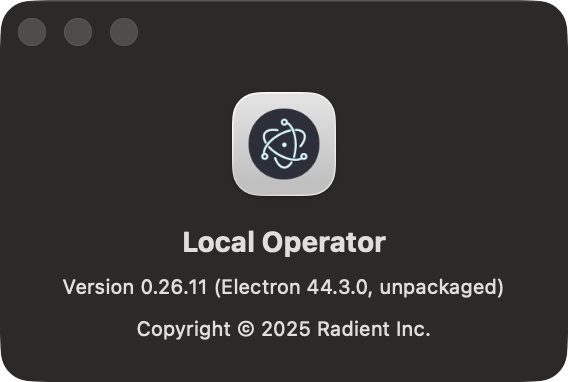
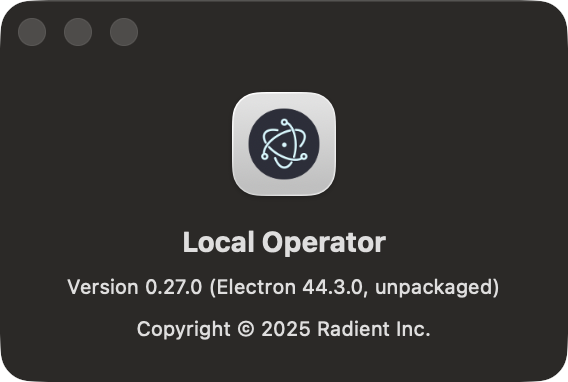
fix(menu): install the app's own menu before the ready handler awaits anything
Remediation round 1 for the code review (F1) and the design review (D1, D2, D3,
D4, N2) on this pull request. The two that are code, plus the evidence re-shot
the design round asked for and two corrections to the set's own prose.

F1 (code review, minor). `configureAboutPanel(); createApplicationMenu();` ran
almost three thousand lines into the ready handler, below the backend awaits -
so until it ran, Electron's DEFAULT application menu was live, and its first item
is `About Electron` carrying Electron's own `about` role. That item has no
handler of ours in its path (`orderFrontStandardAboutPanel:`), so the window mode
cannot suppress it: a `headless` run had an un-gated About item for seconds on
every launch that has to install or reach a backend. It now runs immediately
after the smoke-test branch, above the launcher watch and every `await`. Nothing
in the template needs what the awaits produce: it reads `app.name`,
`process.env.ELECTRON_RENDERER_URL` and the module-level `mainWindow` through
handlers that check it at click time. `scripts/about-panel.test.mjs` gains the
contract - the install's offset in the ready handler must precede the first
`await` in it (comments stripped before the search, or the prose above the call
would be the thing measured), and a second install would be a second decision.

D3 (design review, nit). The `resolveAboutPanelAction` doc comment quoted a
`284x170` panel; the one this change makes is `284x191`, the copyright line's 21pt.
[…]

Changed region(s): [[0.0898, 0.7199, 0.8979, 0.7775]]

diff --git a/src/main/index.ts b/src/main/index.ts
@@ -1552,6 +1552,28 @@ app
 		}
 
 		/*
+		 * The app's own menu, installed BEFORE THIS HANDLER AWAITS ANYTHING.
+		 *
+		 * Why the position is load-bearing rather than tidy (code review round 1,
+		 * F1): until this runs, Electron's DEFAULT application menu is live, and its
+		 * first item is `About Electron` carrying Electron's own `about` role - a
+		 * click with no handler of ours in the path, so the window mode cannot
+		 * suppress it and a `headless` run has an un-gated About item for as long as
+		 * this install has not happened. It used to sit below the backend startup in
+		 * this handler, which is seconds of an agent-triggerable panel for every
+		 * launch that has to install or reach a backend.
+		 *
+		 * Nothing below is needed to build it: the template reads `app.name`,
+		 * `process.env.ELECTRON_RENDERER_URL` and the module-level `mainWindow`
+		 * (through handlers that check it at click time), all of which exist here.
+		 * It sits after the smoke-test branch above on purpose - that path exits the
+		 * process immediately and wants no menu - and still before any `await` in
+		 * this handler.
+		 */
+		configureAboutPanel();
+		createApplicationMenu();
+
+		/*
 		 * A headless run does not outlive the process that launched it.
 		 *
 		 * The window is never shown and macOS keeps a windowless app alive, so an
@@ -2465,10 +2487,6 @@ app
 				}
 			}
 		}
-
-		// Create custom application menu
-		configureAboutPanel();
-		createApplicationMenu();
 
 		// --- Helper to manage main window and update service lifecycle ---
 		let updateService: UpdateService | null = null;

diff --git a/src/main/window-mode.ts b/src/main/window-mode.ts
@@ -728,8 +728,9 @@ export function resolveSecondLaunchShow(input: {
  *
  * `inactive` KEEPS the panel, and that half is a measurement rather than a hope.
  * Measured on this host (macOS 25.6, Electron 44.3.0): `app.showAboutPanel()`
- * orders the panel front - the window server lists it, 284x170, `onscreen: true`
- * - WITHOUT making the app the active application; `app.isActive()` stays false
+ * orders the panel front - the window server lists it, `284x191` at the sizes
+ * these runs use, `onscreen: true` - WITHOUT making the app the active
+ * application; `app.isActive()` stays false
  * and the frontmost pid never moves (0 of 30 samples in the run recorded in
  * `docs/evidence/about-panel`). That is exactly the promise `inactive` makes, so
  * the panel is allowed there. `normal` is the operator's own app and behaves as

diff --git a/docs/evidence/about-panel/README.md b/docs/evidence/about-panel/README.md
@@ -12,12 +12,19 @@ produced, in front of the operator:
 | | name | version line |
 | --- | --- | --- |
 | before | `Electron` | `Version 44.3.0 (44.3.0)` |
-| after | `Local Operator` | `Version 0.26.11 (Electron 44.3.0, unpackaged)` |
+| after | `Local Operator` | `Version 0.27.0 (Electron 44.3.0, unpackaged)` |
 
 Both rows are pixels of the panel window itself, captured from the BUILT app on
-this machine: `frames/before-identity.png` is `origin/main` at `6f15f71ea`,
-`frames/after-identity.png` is the branch head. The second line is a measured run
-of the shipped code, not a mock of it - see *How to re-derive* below.
+this machine: `frames/before-identity.png` is a tree built at `origin/main`
+`f19827852` - the base this branch was rebased onto when round 1 shot it, and the
+last base whose About path is still Electron's `about` role, which is the fact
+the frame is evidence about - and `frames/after-identity.png` is this branch's own
+code, the tree whose `srcTree` `docs/evidence/manifest.json` pins. Neither is a
+mock and neither is the app photographing itself: the About panel is AppKit's
+window, so it is photographed from outside, window-only, with `screencapture -l`
+(never the screen) while the app raised it in `inactive` mode. Both runs are
+UNPACKAGED, which is the case that used to read Electron's identity; what a
+packaged build's panel reads is under *Residual*.
 
 ## What changed
 
@@ -35,61 +42,128 @@ of the shipped code, not a mock of it - see *How to re-derive* below.
   item therefore carries a handler of its own instead of Electron's `about` role,
   whose click is AppKit's `orderFrontStandardAboutPanel:` and cannot be
   intercepted at all.
+- **The menu is installed before the ready handler awaits anything.** Until it is
+  installed, Electron's DEFAULT application menu is live and its first item is
+  `About Electron` carrying that same `about` role - a click no handler of ours is
+  in. It used to sit below the backend startup, which is seconds of an
+  agent-triggerable panel per launch; it now runs immediately after the smoke-test
+  branch, above the launcher watch and every `await`.
 
 ## What was measured
 
 Headless behaviour, from the shipped build (full run output quoted below):
 
 ```
-== windows owned by this app BEFORE the action (window server's list, on screen only):
-   (none)
+== windows owned by this app BEFORE the action (the window server's own list; its onscreen flag is its answer per window):
+   {"id": 38322, "pid": 72867, "owner": "Electron", "name": "Local Operator", "layer": 0, "onscreen": false, "alpha": 1065353216, "bounds": {"x": 174, "y": 109, "w": 1380, "h": 900}}
+== app identity (its own answer): name=Local Operator version=0.27.0 electron=44.3.0 packaged=false
 == About menu entries: Local Operator > About Local Operator [role=none] click=function
+== active before the action: false; windows: [{"visible":false,"focused":false,"focusable":false,"size":[1380,900]}]
 == invoked: Local Operator > About Local Operator via the item's own click handler - called
+== active after the action: false; windows: [{"visible":false,"focused":false,"focusable":false,"size":[1380,900]}]
+== driver: mode=headless appPid=72867 scratch=/tmp/about-panel/after-headless
 == windows owned by this app AFTER the action:
-   (none)
+   {"id": 38322, "pid": 72867, "owner": "Electron", "name": "Local Operator", "layer": 0, "onscreen": false, "alpha": 1065353216, "bounds": {"x": 174, "y": 109, "w": 1380, "h": 900}}
+== the window server's ON-SCREEN set for this pid: (none)
 == the action created no window: nothing reached the screen
 == the app's own line about the action:
-   23:39:15.789 › [about-panel] suppressed by window mode headless: a headless run raises no window
-== this app was the frontmost application in 0 of 33 samples (pid 62441)
-    [window-mode] window mode headless: 1380x900, window created and never shown, page throttling off, no Dock tile
-    [window-mode] state: visible=false focused=false focusable=false size=1380x900 content=1380x868
+   00:57:23.025 › [about-panel] suppressed by window mode headless: a headless run raises no window
+== this app was the frontmost application in 0 of 33 samples (pid 72867)
+== the app's lines about the launch:
+   [window-mode] window mode headless: 1380x900, window created and never shown, page throttling off, no Dock tile
+   00:57:17.422 › [window-mode] headless run already detached (no launcher to outlive)
+   [window-mode] headless run already detached (no launcher to outlive)
+   [window-mode] state: visible=false focused=false focusable=false size=1380x900 content=1380x868
+   00:57:23.025 › [about-panel] suppressed by window mode headless: a headless run raises no window
 == processes left from this run: 0
 ```
 
-The census is the window server's own list for that pid with `onscreen: true`, so
-"no window" is a read of the window server rather than an absence of evidence:
-the headless run's own window exists in that census with `onscreen` false when it
-is asked for all windows, and the rig reads the on-screen set precisely so a panel
-that appeared would be a new window id in it.
+Two facts about that output, because they decide what it is evidence FOR:
+
+- **The invocation is not a menu click.** `harness/drive.mjs` calls the About
+  ITEM's own click handler in the app's main process, over the Node inspector the
+  rig launches the app with. A real menu click is impossible here for the reason
+  the whole change is about: on macOS a menu belongs to the ACTIVE app, so
+  driving one means activating the app, which is the interruption these rigs
+  exist to avoid. Calling the item's handler is the same code path the menu
+  takes, without the activation.
+- **"No window" is a read, not an absence.** The census is the window server's
+  own answer for that run's pid: the headless run's window is right there in it,
+  and the action adds no second one. The rig computes the difference over the
+  FULL list rather than the on-screen set, because the on-screen set is empty for
+  a background app whenever the display is asleep - measured on this machine, and
+  reported separately on its own line - and a difference over it would read "the
+  action created nothing" for the wrong reason.
 
 The identity pair, from the same rig in `inactive` mode (the one mode that shows
 the panel, and the mode whose promise is that the app is never activated):
 
 ```
-== app identity (its own answer): name=Local Operator version=0.26.11 electron=44.3.0 packaged=false
-== active before the action: false; windows: [{"visible":true,"focused":false,...}]
+== windows owned by this app BEFORE the action:
+   {"id": 38270, "pid": 53022, "owner": "Electron", "name": "Local Operator", "layer": 0, "onscreen": false, "alpha": 1065353216, "bounds": {"x": 464, "y": 259, "w": 800, "h": 600}}
+== app identity (its own answer): name=Local Operator version=0.27.0 electron=44.3.0 packaged=false
+== About menu entries: Local Operator > About Local Operator [role=none] click=function
+== active before the action: false; windows: [{"visible":true,"focused":false,"focusable":true,"size":[800,600]}]
 == invoked: Local Operator > About Local Operator via the item's own click handler - called
-== active after the action: false; windows: [{"visible":true,"focused":false,...}]
+== active after the action: false; windows: [{"visible":true,"focused":false,"focusable":true,"size":[800,600]}]
+== driver: mode=inactive appPid=53022 scratch=/tmp/about-panel/after-identity
 == windows owned by this app AFTER the action:
-   {"id": 37602, "name": "Local Operator", "onscreen": true, "bounds": {"w": 800, "h": 600}}
-   {"id": 37603, "name": "", "onscreen": true, "bounds": {"x": 722, "y": 211, "w": 284, "h": 191}}
-== captured the window this action created (id 37603) to .../after-identity.png
-== this app was the frontmost application in 0 of 31 samples (pid 64761)
+   {"id": 38271, "pid": 53022, "owner": "Electron", "name": "", "layer": 0, "onscreen": false, "alpha": 1065353216, "bounds": {"x": 722, "y": 211, "w": 284, "h": 191}}
+   {"id": 38270, "pid": 53022, "owner": "Electron", "name": "Local Operator", "layer": 0, "onscreen": false, "alpha": 1065353216, "bounds": {"x": 464, "y": 259, "w": 800, "h": 600}}
+== the window server's ON-SCREEN set for this pid: (none)
+== captured the window this action created (id 38271) to /tmp/about-panel/after-identity/frames/after-identity.png
+== this app was the frontmost application in 0 of 30 samples (pid 53022)
+== the app's own lines about the launch and this action:
+   [window-mode] window mode inactive: 800x600, window shown without activating the app, page throttling off
+   00:53:53.541 › [window-mode] window mode inactive is not launcher-bound: a person can close it
+   [window-mode] window mode inactive is not launcher-bound: a person can close it
+   [window-mode] state: visible=true focused=false focusable=true size=800x600 content=800x568
 == processes left from this run: 0
 ```
 
 `app.isActive()` stays false and the frontmost pid never moves: raising the panel
 does not activate the app, which is why `inactive` may raise it and `headless` may
-not. The `before` frame was taken the same way, with one difference the rig prints
-itself: an item that is still Electron's ROLE has no handler of ours to call, so
-that run raises the panel through `app.showAboutPanel()` - the call the role makes.
+not. The `before` frame was taken the same way against the base tree, with one
+difference the rig prints itself: an item that is still Electron's ROLE has no
+handler of ours to call, so that run raises the panel through
+`app.showAboutPanel()` - the call the role makes. That run's panel is `284x170`;
+the one this change makes is `284x191`, the 21pt of the copyright line.
 
 ## How to re-derive
 
-`pnpm build` first: both rigs drive the BUILT app from the tree named, and the
-behaviour rig refuses a tree whose `src/main/index.ts` has no gate, so pointing it
-at `origin/main` cannot raise a panel on the operator's desktop by accident.
+`pnpm build` first, and a tree without a `.env` needs four variables exported or
+the build dies before compilation with `Error: VITE_GOOGLE_CLIENT_ID is not set`
+- `scripts/vite-plugins/replace-backend-config.ts` refuses to build without all
+four, and an empty value is refused too. The values are inert placeholders; no
+credential is created or read, and no sign-in is claimed:
 
+```bash
+export VITE_GOOGLE_CLIENT_ID=evidence-build-only-not-a-credential \
+       VITE_GOOGLE_CLIENT_SECRET=evidence-build-only-not-a-credential \
+       VITE_MICROSOFT_CLIENT_ID=evidence-build-only-not-a-credential \
+       VITE_MICROSOFT_TENANT_ID=evidence-build-only-not-a-credential
+pnpm build
+```
+== windows owned by this app BEFORE the action:
+   {"id": 38270, "pid": 53022, "owner": "Electron", "name": "Local Operator", "layer": 0, "onscreen": false, "alpha": 1065353216, "bounds": {"x": 464, "y": 259, "w": 800, "h": 600}}
+== app identity (its own answer): name=Local Operator version=0.27.0 electron=44.3.0 packaged=false
+== About menu entries: Local Operator > About Local Operator [role=none] click=function
+== active before the action: false; windows: [{"visible":true,"focused":false,"focusable":true,"size":[800,600]}]
+== invoked: Local Operator > About Local Operator via the item's own click handler - called
+== active after the action: false; windows: [{"visible":true,"focused":false,"focusable":true,"size":[800,600]}]
+== driver: mode=inactive appPid=53022 scratch=/tmp/about-panel/after-identity
+== windows owned by this app AFTER the action:
+   {"id": 38271, "pid": 53022, "owner": "Electron", "name": "", "layer": 0, "onscreen": false, "alpha": 1065353216, "bounds": {"x": 722, "y": 211, "w": 284, "h": 191}}
+   {"id": 38270, "pid": 53022, "owner": "Electron", "name": "Local Operator", "layer": 0, "onscreen": false, "alpha": 1065353216, "bounds": {"x": 464, "y": 259, "w": 800, "h": 600}}
+== the window server's ON-SCREEN set for this pid: (none)
+== captured the window this action created (id 38271) to /tmp/about-panel/after-identity/frames/after-identity.png
+== this app was the frontmost application in 0 of 30 samples (pid 53022)
+== the app's own lines about the launch and this action:
+   [window-mode] window mode inactive: 800x600, window shown without activating the app, page throttling off
+   00:53:53.541 › [window-mode] window mode inactive is not launcher-bound: a person can close it
+   [window-mode] window mode inactive is not launcher-bound: a person can close it
+   [window-mode] state: visible=true focused=false focusable=true size=800x600 content=800x568
+== processes left from this run: 0
 ```bash
 # The behaviour half. Headless only, nothing on screen, no capture.
 bash docs/evidence/about-panel/harness/run.sh . after-headless
@@ -99,8 +173,9 @@ bash docs/evidence/about-panel/harness/run.sh . after-headless
 ABOUT_PANEL_VISIBLE_CAPTURE=1 timeout 100 bash docs/evidence/about-panel/harness/identity.sh . after-identity
 ```
 
-Run `identity.sh` against a tree built from `origin/main` for the `before` frame
-and against the branch head for the `after` one; use a label that says which.
+Run `identity.sh` against a tree built at the base for the `before` frame and
+against the branch head for the `after` one; use a label that says which, and give
+the base tree no further use - it is deleted once its frame is taken.
 
 Both rigs isolate everything (a scratch `HOME`, config dir, `--user-data-dir`, a
 cwd outside the tree so its `.env` cannot be read, `VITE_DISABLE_BACKEND_MANAGER`
@@ -117,7 +192,31 @@ built on.
 
 ## Residual, stated rather than implied
 
-The panel's ICON is still Electron's in an unpackaged run, and this change cannot
-reach it: the icon comes from the application bundle's `CFBundleIconFile`, and
-`setAboutPanelOptions` has no icon option on macOS. A packaged build shows the
-app's own icon, which is what the operator sees in the shipped app.
+- **The panel's icon is still Electron's in an unpackaged run, and this change
+  could not reach it.** The reviewer's route was `app.dock.setIcon`, which sets
+  `NSApplication.applicationIconImage`; measured with that call in place and
+  logged (`[app-icon] drawing the app's own icon from
+  .../build/icon-1024x1024.png`, the file verified as the app's own art), the
+  panel still drew Electron's atom - the icon region of the re-shot frame is
+  pixel-identical to the same head WITHOUT the call (RMSE 174/65535 over 170x170
+  px, i.e. antialiasing noise, with the frames agreeing everywhere else). So on
+  this host an unpackaged process cannot give the About panel an icon: the panel
+  is drawn from the launching bundle, which for an unpackaged run is
+  Electron.app. That call is not in the change for that reason - an inert call
+  that looks like a fix is worse than the paragraph that says so. What was NOT
+  measured: whether the Dock TILE would move, which needs a visible run and is
+  not what the finding was about.
+- **A packaged build's panel is unevidenced.** Both frames are unpackaged runs. A
+  packaged build carries the app's own name, version, icon and copyright in its
+  bundle, so its panel reads them from there and this registration is deliberately
+  untouched for it (`app.isPackaged` is not consulted: the same strings are set
+  either way, and for a packaged run they agree with the bundle). It is not
+  photographed because a packaged build is not possible on this machine tonight -
+  the disk is at 99% and `electron-builder` needs several GB - so the claim that
+  the packaged panel agrees is an argument from where its values come from, not a
+  picture.
+- **The copyright line's year is `© 2025`**, straight from
+  `package.json`'s `build.copyright`, and it will read that in 2026 until the
+  field is bumped. Left alone here: it is the project's own string, and changing
+  it is a decision about the project's copyright notice rather than about this
+  panel.
